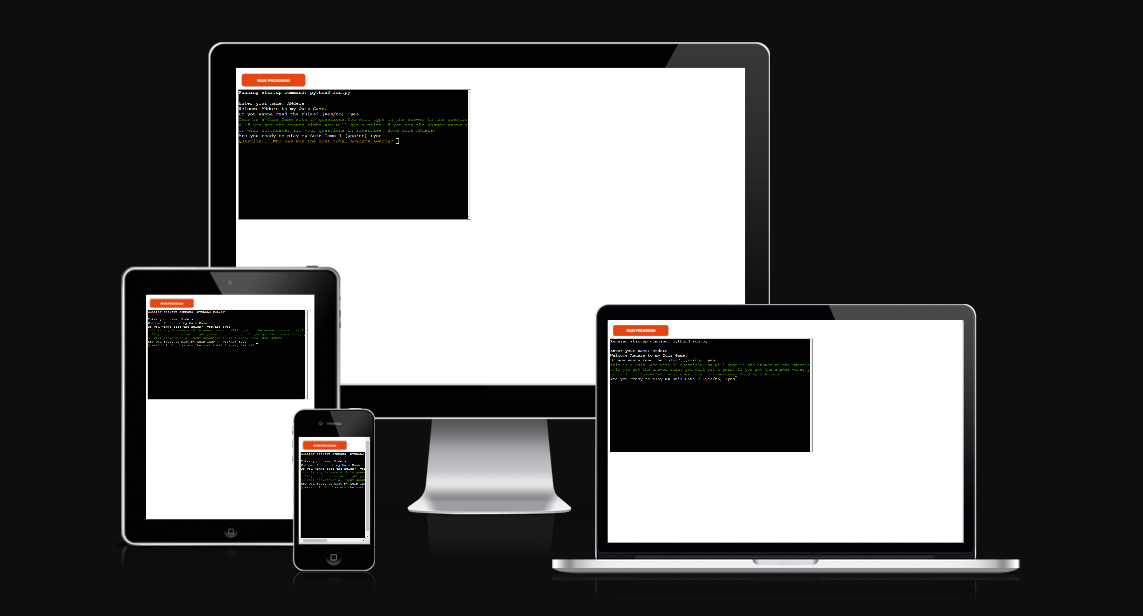
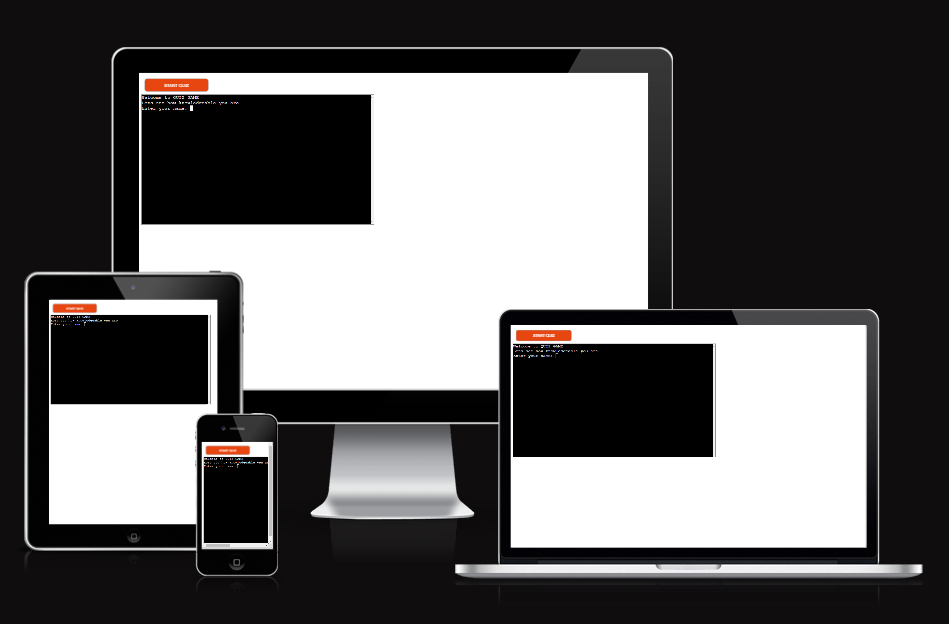
text and images on readme

Changed region(s): [[0.0, 0.0617, 0.9779, 0.9562]]

diff --git a/README.md b/README.md
@@ -7,6 +7,11 @@
 # Overview
 
 Welcome to the Quiz Game! This is a simple yet engaging command-line quiz game developed in Python. The game consists of 20 questions, covering a wide range of topics from pop culture to geography. The objective is to answer the questions correctly to earn points. The game is designed to be fun and educational, making it a great way to test your knowledge or learn something new.
+<br>
+<br>
+<p align="center">
+<img src="image-readme/landingpage.png" alt="Responsive Image" style="border-radius: 20px; width: 400px; height: 350px;">
+</p>
 
 ## Features
 
@@ -32,6 +37,7 @@ pip install colored
 ```
 
 ## Usage
+- Here you can find the repository [click here](https://github.com/AndersH82/a_quiz_game.git)
 - Clone the repository or download the `run.py` file.
 - Open your terminal or command prompt.
 - Navigate to the directory containing `run.py`.
@@ -41,6 +47,8 @@ pip install colored
 python run.py
 ```
 - Follow the on-screen instructions to play the game.
+
+- If you don't want to play in the terminal, you can go [here](https://a-quiz-game-69878e1225dc.herokuapp.com/)  and there to play via the browser.
 
 ## Program and libraries used
 
@@ -105,6 +113,9 @@ pip install pycodestyle
 ```
 pycodestyle run.py
 ```
+## Deployment
+
+Quiz Game is deployed on Heroku.com and you can see the app here [click here](https://a-quiz-game-69878e1225dc.herokuapp.com/) 
 
 ## Contributing
 Contributions to the Quiz Game are welcome! If you have suggestions for new questions or improvements to the game, please feel free to open an issue or submit a pull request.
